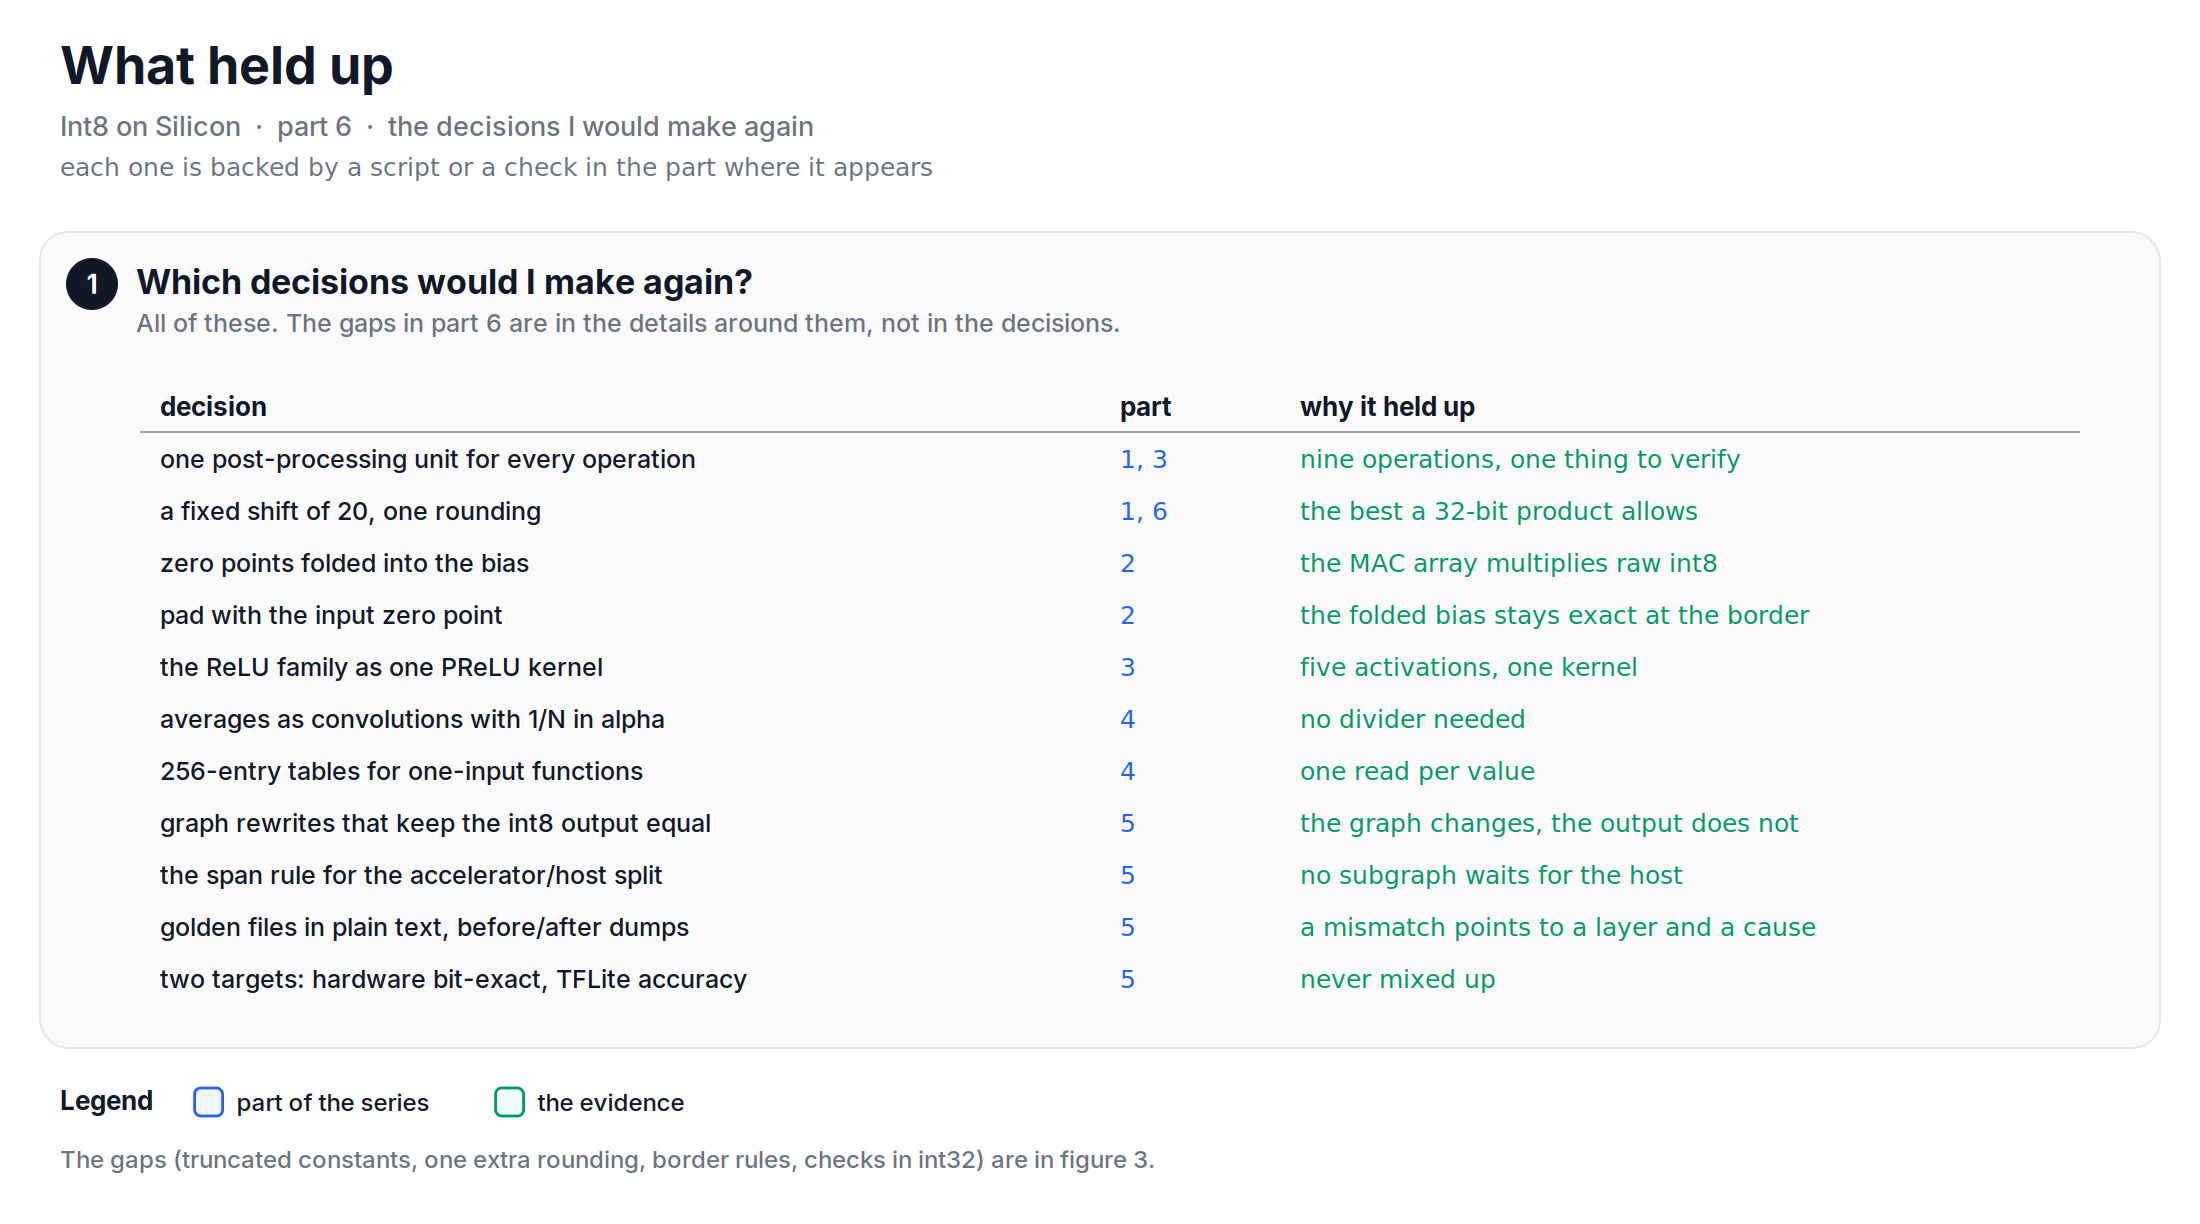
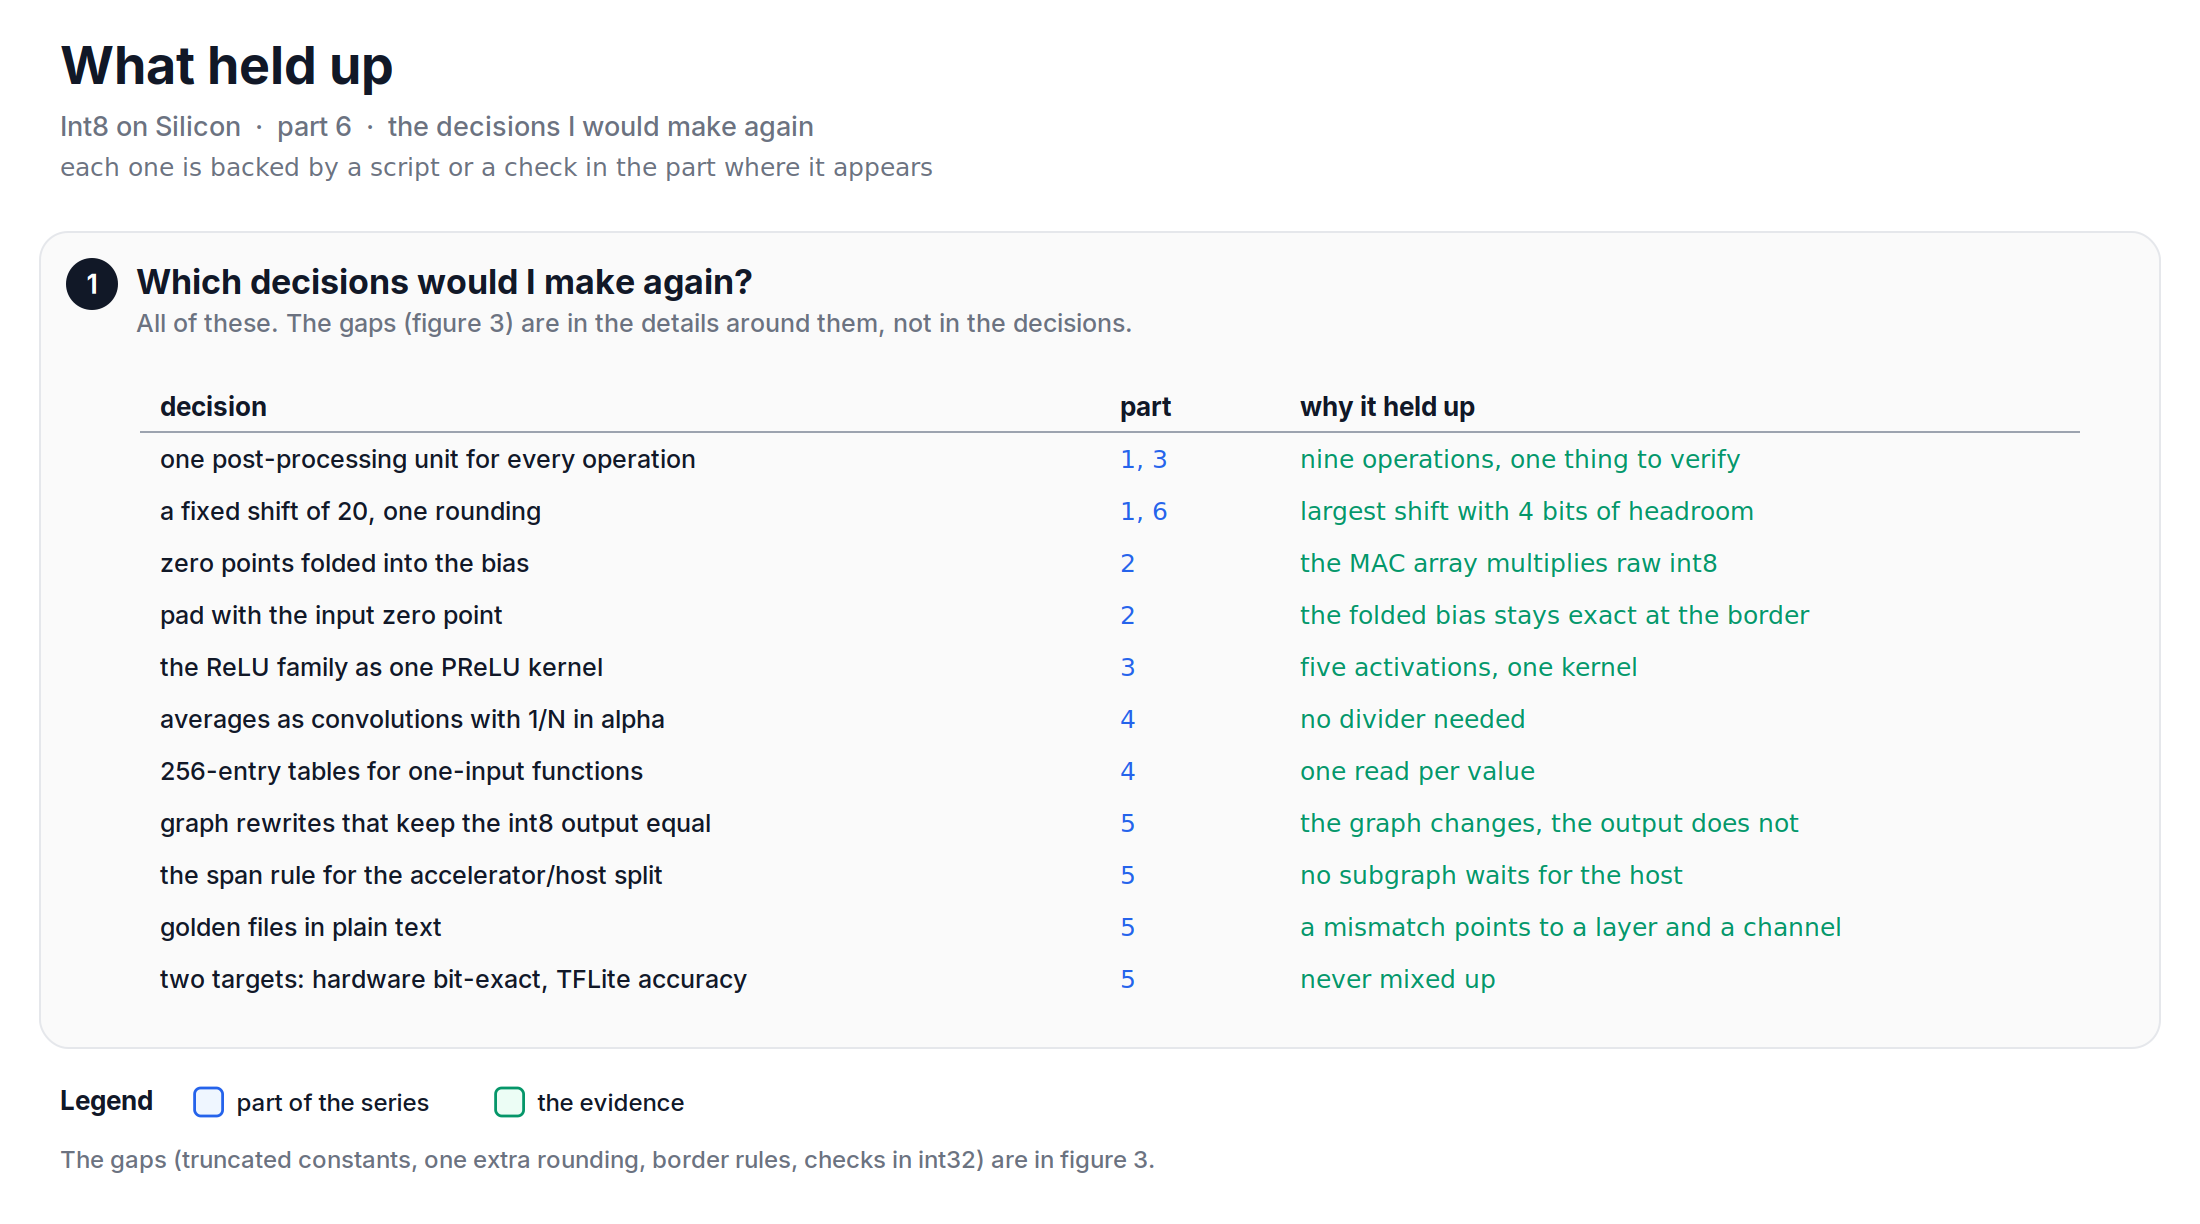
Int8 on Silicon, part 6: review fixes
Shift-20 rationale (4 bits of headroom), concat compared correctly with
TFLite int8 (it copies too), golden files without the dump claim, softer
wording, Reference list added, bit-budget figure moved next to 'wider
product', shorter Roviero line, figure labels and LinkedIn carousel.

diff --git a/learnings/20261107_int8_on_silicon_6/diagrams/fig4_what_held_up.py b/learnings/20261107_int8_on_silicon_6/diagrams/fig4_what_held_up.py
@@ -14,7 +14,7 @@ d.header("What held up",
 rows = [
     ("decision", "part", "why it held up"),
     ("one post-processing unit for every operation", "1, 3", "nine operations, one thing to verify"),
-    ("a fixed shift of 20, one rounding", "1, 6", "the best a 32-bit product allows"),
+    ("a fixed shift of 20, one rounding", "1, 6", "largest shift with 4 bits of headroom"),
     ("zero points folded into the bias", "2", "the MAC array multiplies raw int8"),
     ("pad with the input zero point", "2", "the folded bias stays exact at the border"),
     ("the ReLU family as one PReLU kernel", "3", "five activations, one kernel"),
@@ -22,13 +22,13 @@ rows = [
     ("256-entry tables for one-input functions", "4", "one read per value"),
     ("graph rewrites that keep the int8 output equal", "5", "the graph changes, the output does not"),
     ("the span rule for the accelerator/host split", "5", "no subgraph waits for the host"),
-    ("golden files in plain text, before/after dumps", "5", "a mismatch points to a layer and a cause"),
+    ("golden files in plain text", "5", "a mismatch points to a layer and a channel"),
     ("two targets: hardware bit-exact, TFLite accuracy", "5", "never mixed up"),
 ]
 y = 116
 H = table_height(len(rows))
 d.panel(y, H, 1, "Which decisions would I make again?",
-        "All of these. The gaps in part 6 are in the details around them, not in the decisions.")
+        "All of these. The gaps (figure 3) are in the details around them, not in the decisions.")
 table(d, y + 92, rows, [80, 560, 650], lambda i, j, v: BLUE if j == 1 else (EMERALD if j == 2 else INK))
 
 y += H + 20

diff --git a/learnings/20261107_int8_on_silicon_6/diagrams/fig1_overflow.py b/learnings/20261107_int8_on_silicon_6/diagrams/fig1_overflow.py
@@ -27,8 +27,8 @@ d.panel(y, 170, 1, "What does the hardware compute?",
         "The int32 product wraps to a negative number, and the clip turns the largest output into the smallest.")
 row(y + 74, [
     ("int32 product", ["2416 * 1,000,000", "-> -1,878,967,296"], PINK),
-    (">> 20", ["-1792", "(true value: 2304)"], PINK),
-    ("clip", ["-128", "(true value: 127)"], PINK),
+    (">> 20", ["-1792", "(int64 value: 2304)"], PINK),
+    ("clip", ["-128", "(int64 path: 127)"], PINK),
 ], PINK)
 
 y += 190
@@ -50,6 +50,6 @@ row(y + 74, [
 ], EMERALD)
 
 y += 190
-d.legend(30, y, [(PINK, "wrong result"), (AMBER, "the checks we had"), (EMERALD, "the fix"), (BLUE, "the test we needed")])
-y = d.footnotes(30, y + 40, ["It needs |acc * M| > 2048, which is rare in a trained network, so the bug can stay hidden for a long time."])
+d.legend(30, y, [(PINK, "flipped result"), (AMBER, "the checks we had"), (EMERALD, "the fix"), (BLUE, "the test we needed")])
+y = d.footnotes(30, y + 40, ["It needs |acc * M| > 2048, which is rare in a trained network, so the gap can stay hidden for a long time."])
 d.save(height=y + 10)

diff --git a/learnings/20261107_int8_on_silicon_6/diagrams/fig2_bit_budget.py b/learnings/20261107_int8_on_silicon_6/diagrams/fig2_bit_budget.py
@@ -52,5 +52,5 @@ table(y + 92, rows, [80, 400, 820], lambda i, r: EMERALD if "ours" in r[0] else 
 
 y += H + 20
 d.legend(30, y, [(EMERALD, "our choice"), (AMBER, "no spare bits"), (PINK, "int8 range overflows"), (VIOLET, "wider product")])
-y = d.footnotes(30, y + 40, ["Shift 20 was the best a 32-bit product allows. The precision for small M was limited by the product width."])
+y = d.footnotes(30, y + 40, ["With 4 bits of headroom, 20 is the largest shift a 32-bit product allows. Precision for small M is limited by the product width."])
 d.save(height=y + 10)

diff --git a/learnings/20261107_int8_on_silicon_6/diagrams/fig3_scorecard.py b/learnings/20261107_int8_on_silicon_6/diagrams/fig3_scorecard.py
@@ -21,7 +21,7 @@ rows = [
     ("4", "softmax cast truncated", "82 % of values", "round()"),
     ("4", "resize weights truncated", "26 of 169, by 1", "integer complements"),
     ("6", "max pool pads with z", "28 of 64, max 47", "skip padded points"),
-    ("6", "concat copies bytes", "real error up to 6.4", "requantize or check"),
+    ("6", "concat copies bytes", "real error up to 6.4", "check the scales"),
     ("6", "overflow guard in int32", "127 becomes -128", "check in int64"),
 ]
 y = 116

diff --git a/learnings/20261107_int8_on_silicon_6/linkedin-post.md b/learnings/20261107_int8_on_silicon_6/linkedin-post.md
@@ -1,12 +1,12 @@
 # LinkedIn post: Int8 on Silicon - Part 6: What I would do differently
 
-**Attach:** `fig2_bit_budget.png`, `fig1_overflow.png`, `fig3_scorecard.png` as a carousel (in this order).
+**Attach:** `fig4_what_held_up.png`, `fig1_overflow.png`, `fig2_bit_budget.png`, `fig3_scorecard.png` as a carousel (in this order, as in the post).
 
 ---
 
 Int8 on Silicon, part 6, the last one: what held up, and what I would change.
 
-What held up: one post-processing unit for every operation, and a fixed shift of 20 with one rounding. I only understood the 20 fully this week: alpha × acc is the output with 20 fraction bits, and an int8 output plus 4 spare bits leaves exactly 20 in a 32-bit product. It was the best shift there is.
+What held up: one post-processing unit for every operation, and a fixed shift of 20 with one rounding. I only understood the 20 fully this week: alpha × acc is the output with 20 fraction bits, and an int8 output plus 4 spare bits leaves exactly 20 in a 32-bit product. With that headroom, it was the largest shift there is.
 
 What I'd refine, found by re-running everything in NumPy:
 → Constants truncated with int() instead of rounded. Rounding alpha alone takes the mismatch from 2.83% to 0.02%, better than TFLite.
@@ -22,4 +22,4 @@ The whole series, with code and figure scripts, is in my kaizen repo (link in co
 
 ---
 
-**First comment:** https://github.com/mrtpk/kaizen/tree/master/learnings
+**First comment:** https://github.com/mrtpk/kaizen/tree/master/learnings/20261107_int8_on_silicon_1
